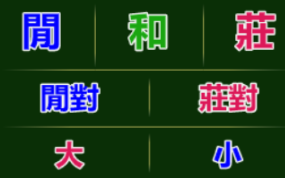
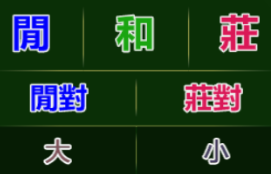
new

diff --git a/capture_bet_one.py b/capture_bet_one.py
@@ -39,6 +39,7 @@ bets = []
 bankers =[]
 cards =[]
 colors = []
+wins = []
 
 reds = [cv2.imread('Card_Imgs/Diamonds.png',0),cv2.imread('Card_Imgs/Hearts.png',0)
 ,cv2.imread('Card_Imgs/Diamonds2.png',0),cv2.imread('Card_Imgs/Hearts2.png',0)
@@ -196,7 +197,7 @@ def mathc_img_ini(image,value):
         count[0] = 0
         round_start = 1
         status='reset'
-        #print ('ini')
+        print ('ini')
         cv2.rectangle(img_rgb, max_l, (max_l[0] + w, max_l[1] + h), (7,249,151), 2)
        
     
@@ -592,7 +593,7 @@ def img_whowin(image):
     #return img_rgb
 ## 判斷誰贏
 def mathc_img_whowin1(image,value): 
-    global count,end,whowin,bet_last,result,lose_count
+    global count,end,whowin,bet_last,result,lose_count,wins
     img_rgb = image
     img_gray = cv2.cvtColor(img_rgb, cv2.COLOR_BGR2GRAY) 
     player_win = cv2.imread('Card_Imgs/player_win.png',0) 
@@ -606,16 +607,17 @@ def mathc_img_whowin1(image,value):
     #min_v,max_v,min_l,max_l = cv2.minMaxLoc(res)
     #if end[0]!=0:
         #return img_rgb
-    
+    wins=[]
     threshold = value
     if player_win_res!=[]:
         w, h = player_win.shape[::-1] 
         
         min_v,max_v,min_l,max_l = cv2.minMaxLoc(player_win_res)
-        if 50< max_l[1] + h/2 < 200 and 300< max_l[0] + w/2 <500 :
+        if 50< max_l[1] + h/2 < 300 and 450< max_l[0] + w/2 <500 :
             
             #img_whowin(image)
             img_whowin(img_rgb[max_l[1]:max_l[1] + h,max_l[0]:max_l[0] + w])
+            wins = img_rgb[max_l[1]:max_l[1] + h,max_l[0]:max_l[0] + w]
             cv2.rectangle(img_rgb, max_l, (max_l[0] + w, max_l[1] + h), (7,249,151), 2)
             cv2.imwrite('cr1.jpg',img_rgb)
         
@@ -623,10 +625,11 @@ def mathc_img_whowin1(image,value):
         w, h = banker_win.shape[::-1]
         
         min_v,max_v,min_l,max_l = cv2.minMaxLoc(banker_win_res)
-        if 50< max_l[1] + h/2 < 300 and 300< max_l[0] + w/2 <500 :
+        if 50< max_l[1] + h/2 < 300 and 450< max_l[0] + w/2 <500 :
             
             #img_whowin(image)
             img_whowin(img_rgb[max_l[1]:max_l[1] + h,max_l[0]:max_l[0] + w])
+            wins = img_rgb[max_l[1]:max_l[1] + h,max_l[0]:max_l[0] + w]
             cv2.rectangle(img_rgb, max_l, (max_l[0] + w, max_l[1] + h), (7,249,151), 2)
             cv2.imwrite('cr1.jpg',img_rgb)
         
@@ -634,10 +637,11 @@ def mathc_img_whowin1(image,value):
         w, h = no_win.shape[::-1]
         
         min_v,max_v,min_l,max_l = cv2.minMaxLoc(no_win_res)
-        if 50< max_l[1] + h/2 < 200 and 300< max_l[0] + w/2 <500 :
+        if 50< max_l[1] + h/2 < 300 and 450< max_l[0] + w/2 <500 :
             
             #img_whowin(image)
             img_whowin(img_rgb[max_l[1]:max_l[1] + h,max_l[0]:max_l[0] + w])
+            wins = img_rgb[max_l[1]:max_l[1] + h,max_l[0]:max_l[0] + w]
             cv2.rectangle(img_rgb, max_l, (max_l[0] + w, max_l[1] + h), (7,249,151), 2)
             cv2.imwrite('cr1.jpg',img_rgb)
      
@@ -843,6 +847,11 @@ def switch(acc):
     if acc == 2:
         switch_acc = 2
         pyautogui.click(x=378,y=17,button='left')
+def dim_xy(img,scale):
+    scale_percent = scale # percent of original size
+    width = int(img.shape[1] * scale_percent / 100)
+    height = int(img.shape[0] * scale_percent / 100)
+    return (width, height)
     
 def on_click(x, y, button, pressed):
     
@@ -873,7 +882,7 @@ px,py = mathc_img_bet_player(frame,1)
 while(bx!=0 and by!=0 and px!=0 and py!=0):
     
     sleep(0.03)
-    message.fill(0) #= np.zeros((500, 600), np.uint8)
+    message.fill(255) #= np.zeros((500, 600), np.uint8)
     x, y, width, height = getWindow_W_H(hwnd)
     #print (getWindow_W_H(hwnd))
     #pic = ImageGrab.grabclipboard()
@@ -883,6 +892,7 @@ while(bx!=0 and by!=0 and px!=0 and py!=0):
     bankers =[]
     cards =[]
     colors = []
+    wins = []
     if lose_count>9:
         lose_count = 0
     if (lose_count == 8 or lose_count == 9)  and switch_acc == 2:
@@ -1039,10 +1049,11 @@ while(bx!=0 and by!=0 and px!=0 and py!=0):
     
     ###
     cv2.putText(mtimg, str(count[0]), (100, 100), cv2.FONT_HERSHEY_SIMPLEX,  1, (0, 255, 255), 4, cv2.LINE_AA)
-    scale_percent = 50 # percent of original size
-    width = int(mtimg.shape[1] * scale_percent / 100)
-    height = int(mtimg.shape[0] * scale_percent / 100)
-    dim = (width, height)
+    # scale_percent = 50 # percent of original size
+    # width = int(mtimg.shape[1] * scale_percent / 100)
+    # height = int(mtimg.shape[0] * scale_percent / 100)
+    # dim = (width, height)
+    dim =dim_xy(mtimg,50)
     reimage = cv2.resize(mtimg, dim, interpolation = cv2.INTER_AREA)
     
     
@@ -1051,11 +1062,11 @@ while(bx!=0 and by!=0 and px!=0 and py!=0):
     #pil_image = pic.crop(box=(x,y,width-x,height-y))
     
     
-    cv2.putText(message, "Count: "+str(count[0])+" Lose Count: "+str(lose_count), (50, 50), cv2.FONT_HERSHEY_SIMPLEX,  1, (0, 255, 255), 4)
-    cv2.putText(message, "Who Win: "+whowin, (50, 100), cv2.FONT_HERSHEY_SIMPLEX,  1, (0, 255, 255), 4,)
-    cv2.putText(message, "Bet Result: "+result, (50, 150), cv2.FONT_HERSHEY_SIMPLEX,  1, (0, 255, 255), 4)
-    cv2.putText(message, "Which Bet: "+bet_one, (50, 200), cv2.FONT_HERSHEY_SIMPLEX,  1, (0, 255, 255), 4)
-    cv2.putText(message, "Last Bet: "+bet_last, (50, 250), cv2.FONT_HERSHEY_SIMPLEX,  1, (0, 255, 255), 4)
+    cv2.putText(message, "Count: "+str(count[0])+" Lose Count: "+str(lose_count), (50, 50), cv2.FONT_HERSHEY_SIMPLEX,  1, (0, 0, 0), 4)
+    cv2.putText(message, "Who Win: "+whowin, (50, 100), cv2.FONT_HERSHEY_SIMPLEX,  1, (0, 0, 0), 4,)
+    cv2.putText(message, "Bet Result: "+result, (50, 150), cv2.FONT_HERSHEY_SIMPLEX,  1, (0, 0, 0), 4)
+    cv2.putText(message, "Which Bet: "+bet_one, (50, 200), cv2.FONT_HERSHEY_SIMPLEX,  1, (0, 0, 0), 4)
+    cv2.putText(message, "Last Bet: "+bet_last, (50, 250), cv2.FONT_HERSHEY_SIMPLEX,  1, (0, 0, 0), 4)
     # if check_end==1:
         # cv2.putText(message, "Status: close", (50, 300), cv2.FONT_HERSHEY_SIMPLEX,  1, (0, 255, 255), 4)
     # #cv2.putText(message, "Last Bet: "+bet_last, (50, 250), cv2.FONT_HERSHEY_SIMPLEX,  1, (0, 255, 255), 4)
@@ -1063,16 +1074,31 @@ while(bx!=0 and by!=0 and px!=0 and py!=0):
         # cv2.putText(message, "Status: reset", (50, 300), cv2.FONT_HERSHEY_SIMPLEX,  1, (0, 255, 255), 4)
     # if startbet == 1:
         # cv2.putText(message, "Status: start bet", (50, 300), cv2.FONT_HERSHEY_SIMPLEX,  1, (0, 255, 255), 4)
-    cv2.putText(message, "Status: "+status, (50, 300), cv2.FONT_HERSHEY_SIMPLEX,  1, (0, 255, 255), 4)
-    
+    cv2.putText(message, "Status: "+status, (50, 300), cv2.FONT_HERSHEY_SIMPLEX,  1, (0, 0, 0), 4)
+    #print (colors[0])
+    if colors!=[]:
+        cc=frame[colors[0][2]:colors[0][4],colors[0][1]:colors[0][3]]
+        dim =dim_xy(cc,500)
+        cc = cv2.resize(cc, dim, interpolation = cv2.INTER_AREA)
+        mask = 255 * np.ones(cc.shape, cc.dtype)
+        message = cv2.seamlessClone(cc,message,mask,(50,400),cv2.NORMAL_CLONE)
+    if wins!=[]:
+        #cc=frame[colors[0][2]:colors[0][4],colors[0][1]:colors[0][3]]
+        dim =dim_xy(wins,300)
+        wins = cv2.resize(wins, dim, interpolation = cv2.INTER_AREA)
+        mask = 255 * np.ones(wins.shape, wins.dtype)
+        message = cv2.seamlessClone(wins,message,mask,(150,400),cv2.NORMAL_CLONE)
     #message = cv2.add(message,mtimg[colors[1]:colors[3],colors[0]:colors[2]])
     #frame = getWindow_Img(hwnd)
     cv2.namedWindow("Message",1)
     cv2.imshow("Message", message)
     cv2.moveWindow('Message',1005,106)
-    #cv2.imshow("screen box", reimage)
+    cv2.imshow("screen box", reimage)
+    
     hwnd1 = FindWindow_bySearch("Message")
+    hwnd2 = FindWindow_bySearch("screen box")
     win32gui.SetForegroundWindow(hwnd1)
+    win32gui.SetForegroundWindow(hwnd2)
     #cv2.imshow("screen box", frame)
     #cv2.imshow("edges box", edges)
     k = cv2.waitKey(30)&0xFF #64bits! need a mask
